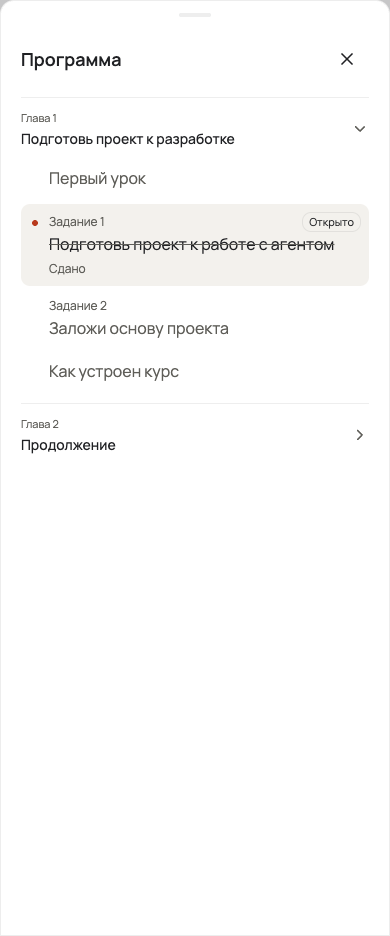
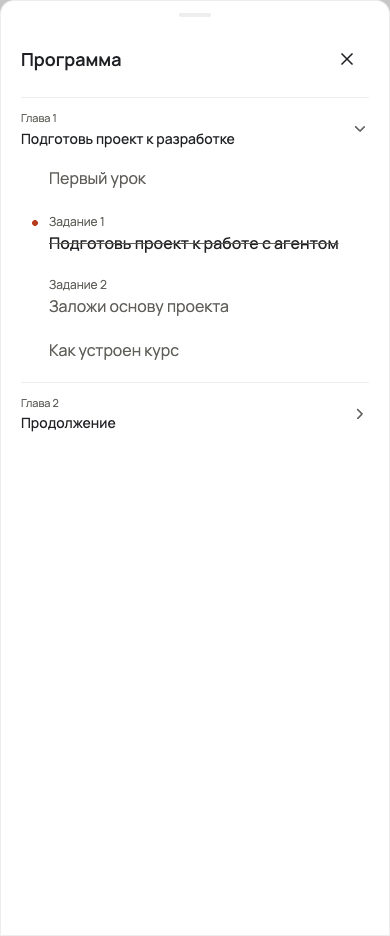
prototype(reader): keep only strikethrough and quiet current typography
Owner selected A, removed the visible submitted/open badges and selected-row fill, and explicitly commissioned immediate application to the local stand. Current title weight500; submission remains accessible but visually represented only by strikethrough.

Changed region(s): [[0.1231, 0.2169, 0.9231, 0.4028], [0.0615, 0.4028, 0.3077, 0.4957]]

diff --git a/apps/web/src/features/library-discovery/ui/course-task-completion.prototype.module.css b/apps/web/src/features/library-discovery/ui/course-task-completion.prototype.module.css
@@ -19,14 +19,6 @@
   justify-content: space-between;
   gap: 0.25rem 0.5rem;
 }
-.current {
-  font-size: 0.6875rem;
-  color: var(--foreground);
-  padding-inline: 0.375rem;
-  border: 1px solid var(--border);
-  border-radius: var(--radius-sm);
-  line-height: 1.6;
-}
 .title {
   display: block;
   overflow-wrap: anywhere;
@@ -38,9 +30,12 @@
   margin-top: 0.125rem;
   color: var(--muted-foreground);
 }
-.host [data-prototype-task][aria-current="step"] {
-  background: var(--muted);
-  border-radius: var(--radius-sm);
+.host[data-variant="A"] [data-prototype-task][aria-current="step"] {
+  background: transparent;
+  border-radius: 0;
+}
+.host [data-prototype-task][aria-current="step"] .title {
+  font-weight: 500;
 }
 .host[data-variant="A"] [data-prototype-submitted="true"] .title {
   text-decoration-line: line-through;
@@ -75,6 +70,7 @@
   color: var(--background);
   border-radius: 50%;
 }
+.host[data-variant="A"] .status,
 .host[data-variant="C"] .status {
   position: absolute;
   width: 1px;

diff --git a/apps/web/src/features/library-discovery/ui/course-task-completion-prototype.stories.tsx b/apps/web/src/features/library-discovery/ui/course-task-completion-prototype.stories.tsx
@@ -97,18 +97,15 @@ function readChoice(name: string, max: number): number {
 function TaskLabel({
   step,
   variant,
-  current,
 }: {
   step: CourseReadingStep;
   variant: number;
-  current: boolean;
 }) {
   const done = submitted.has(step.id);
   return (
     <span className={styles["label"]}>
       <span className={styles["meta"]}>
         <small>Задание {step.taskOrdinal}</small>
-        {current && <span className={styles["current"]}>Открыто</span>}
       </span>
       <span className={styles["title"]}>{step.title}</span>
       {done && (
@@ -258,11 +255,7 @@ function Comparison() {
       </CourseReadingLayout>
       {targets.map(({ element, step }, index) =>
         createPortal(
-          <TaskLabel
-            step={step}
-            variant={variant}
-            current={step.id === context.current.id}
-          />,
+          <TaskLabel step={step} variant={variant} />,
           element,
           `${step.id}:${String(index)}`,
         ),

diff --git a/docs/evidence/reader-task-completion/README.md b/docs/evidence/reader-task-completion/README.md
@@ -1,7 +1,9 @@
 # Reader Task submission marks — design comparison
 
 Owner assignment: 2026-10-15. Prototype only; no production change.
-Owner selected direction A, with the submission date removed. Preserve the strikethrough and «Сдано» label.
+Owner selected direction A. Remove the submission date and visible «Сдано»/«Открыто» labels.
+Keep only the submitted-title strikethrough. Indicate the current Task with slightly heavier title
+weight (500); do not add a selected-row background or border. An accessible submitted label remains.
 Base source: `fa6f153e421d8f48823cba4a3ad24e3e2266f27a`.
 Branch: `prototype/reader-task-completion`.
 
@@ -10,7 +12,7 @@ Branch: `prototype/reader-task-completion`.
 How should the course Reader sidebar show a saved Task submission while retaining a readable title,
 chapter-local Task numbering and an independent current-step indication?
 
-- A: a subtle title strikethrough and «Сдано» label without a submission date.
+- A: a subtle title strikethrough; no visible status/date. The current title uses weight500.
 - B: an outlined check on the left and visible «Сдано» label.
 - C: a checked node on the existing position rail; an accessible «Сдано» label remains available.
 
@@ -30,7 +32,7 @@ and is not a submission. Author `reviewedAt` means viewed, not accepted. The pro
 boundary: opening a page or preparing an unsubmitted report cannot add the mark.
 
 The state controls show a new open Task, an already submitted open Task, and a ready report that
-has not been submitted. Current selection is separate from submission state in every variant.
+has not been submitted. Current selection is separate from submission state in every variant; it does not add a badge or row background.
 
 ## Preview and evidence
 
